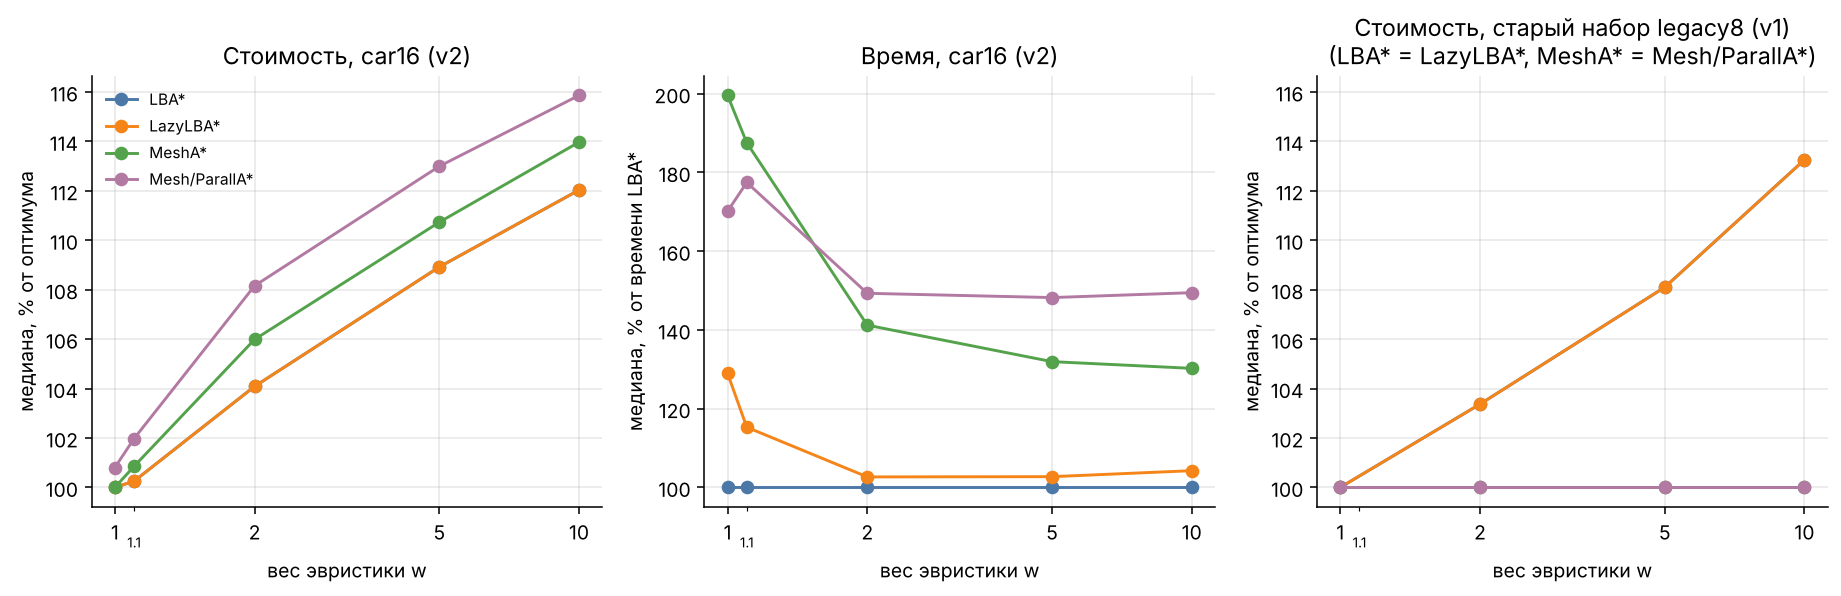
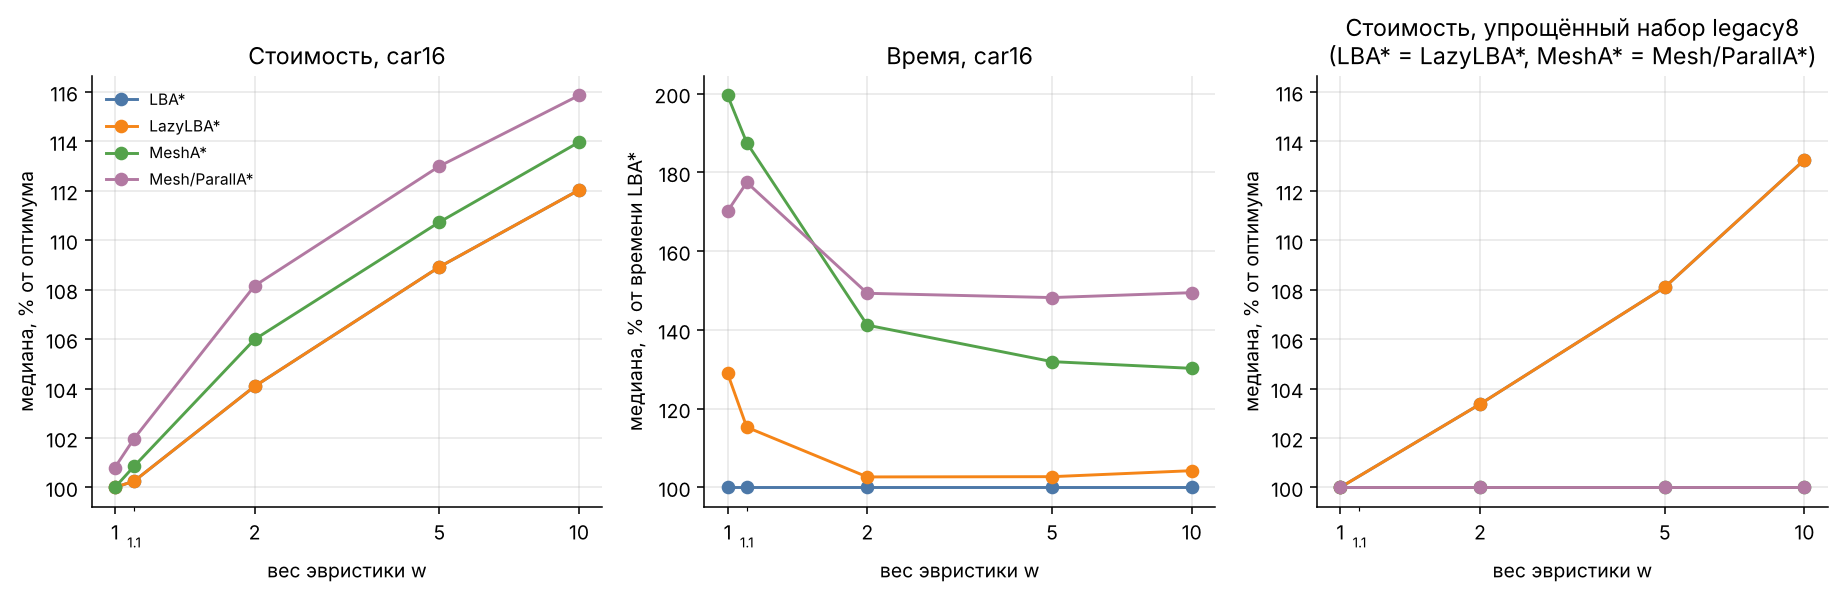
Fix README numbers that disagree with results, drop version labels
- README / conclusions: MeshA* checks above cost 80 are 74% of LBA*, not 87%
- Mesh/ParallA* first-query median cost is 100.6% (100.8% is over all queries)
- conclusions: first-query times for MeshA* (2.5x) and LazyLBA* (1.6x)
- README: say the legacy8 ablation uses its own 32 instances; mention the
  3 draws dropped because no obstacle could be placed
- Figure 7: remove (v1)/(v2) from titles
- Rename data/benchmarks/incremental_mesha_v1.json to legacy8_instances.json
- requirements: add nbconvert and ipykernel used by the README's notebook command
- Rebuild and re-execute the notebook

Claude-Session: https://claude.ai/code/session_0136pGyRuDmUFWzwHhNTfNaW

Changed region(s): [[0.7121, 0.0302, 0.9908, 0.0604], [0.1238, 0.0604, 0.2477, 0.1208], [0.4644, 0.0604, 0.5883, 0.1208]]

diff --git a/mesha/benchmark.py b/mesha/benchmark.py
@@ -418,17 +418,16 @@ def run_benchmark(benchmark: dict | None = None, repeats: int = 3, weights=WEIGH
 
 
 def run_legacy_ablation(weights=(1.0, 2.0, 5.0, 10.0)) -> dict:
-    """The v1 benchmark (8-heading legacy set) with the corrected counters.
+    """Ablation with the 8-heading legacy8 control set on its own 32 instances.
 
-    Used to check whether the v1 finding "weighted MeshA* is less suboptimal than
-    LBA*" comes from the control set.
+    Checks whether "weighted MeshA* is as good as LBA*" depends on the control set.
     """
-    v1 = json.loads((ROOT / "data" / "benchmarks" / "incremental_mesha_v1.json").read_text(encoding="utf-8"))
+    data = json.loads((ROOT / "data" / "benchmarks" / "legacy8_instances.json").read_text(encoding="utf-8"))
     control = build_control_set("legacy8")
     mesh = build_mesh(control)
-    maps = {row["file"]: load_map(MAP_DIR / row["file"]) for row in v1["maps"]}
+    maps = {row["file"]: load_map(MAP_DIR / row["file"]) for row in data["maps"]}
     records = []
-    for instance in v1["instances"]:
+    for instance in data["instances"]:
         for qi, query in enumerate(instance["queries"]):
             grid = apply_blocks(maps[instance["map"]], query["blocks"])
             for weight in weights:
@@ -440,7 +439,7 @@ def run_legacy_ablation(weights=(1.0, 2.0, 5.0, 10.0)) -> dict:
                         "success": r.success, "cost": r.cost if r.success else None,
                         "expansions": r.expansions, "checked_cells": r.checked_cells,
                     })
-    return {"meta": {"control_set": "legacy8", "instances": len(v1["instances"])}, "records": records}
+    return {"meta": {"control_set": "legacy8", "instances": len(data["instances"])}, "records": records}
 
 
 def save_results(results: dict, path: Path | None = None) -> Path:

diff --git a/tools_make_figures.py b/tools_make_figures.py
@@ -164,7 +164,7 @@ for name in ONE_SHOT:
     axes[2].plot(lw, ys, marker="o", color=COLORS[name], label=DISPLAY[name])
 for ax, title, ylabel in zip(
     axes,
-    ("Стоимость, car16 (v2)", "Время, car16 (v2)", "Стоимость, старый набор legacy8 (v1)\n(LBA* = LazyLBA*, MeshA* = Mesh/ParallA*)"),
+    ("Стоимость, car16", "Время, car16", "Стоимость, упрощённый набор legacy8\n(LBA* = LazyLBA*, MeshA* = Mesh/ParallA*)"),
     ("медиана, % от оптимума", "медиана, % от времени LBA*", "медиана, % от оптимума"),
 ):
     ax.set_xscale("log")

diff --git a/README.md b/README.md
@@ -68,7 +68,7 @@ mesh-графе эвристика равна расстоянию от аген
 | Трассы коллизий | Supercover кривой: при пересечении угла клетки помечаются обе соседние клетки, поэтому диагональные шаги не срезают углы препятствий |
 | Препятствия | Диск радиуса 2–4 на плане; агент останавливается за 4 клетки до него. Каждая правка повышает оптимальную стоимость (медиана +2.3) |
 | Счётчики | Стартовая клетка примитива не считается; MeshA\* считает различные клетки за одно раскрытие плюс чтения своего правила отсечения |
-| Бенчмарк | Длины стратифицированы (до 120 на картах MovingAI, до 90 на сгенерированных), по 3 случайных пары курсов на пару клеток, как в статье. Отбрасываются только запросы, у которых решения нет в принципе; все отказы записываются в лог |
+| Бенчмарк | Длины стратифицированы (до 120 на картах MovingAI, до 90 на сгенерированных), по 3 случайных пары курсов на пару клеток, как в статье. Отбрасываются запросы, у которых решения нет в принципе, и запросы, на плане которых не удалось поставить препятствие (3 случая); все отказы записываются в лог |
 | Замер времени | 3 повтора в случайном порядке, берётся медиана. Счётчики обязаны совпадать между повторами, иначе прогон останавливается |
 | Базовые линии | Mesh/ParallA\* и веса `w` = 1, 1.1, 2, 5, 10 на всех запросах, как в статье |
 
@@ -133,7 +133,7 @@ mesh-графе эвристика равна расстоянию от аген
 | LBA\* | 100% | 100% | 325% | оптимум |
 | LazyLBA\* | 156% | 31% | 100% | оптимум |
 | MeshA\* | 246% | 70% | 210% | оптимум |
-| Mesh/ParallA\* | 170% | 63% | 201% | 100.8% (медиана) |
+| Mesh/ParallA\* | 170% | 63% | 201% | 100.6% (медиана) |
 
 * **Проверки коллизий.** MeshA\* читает 70% клеток от нашего LBA\* (город 81%, помещение 75%, лабиринт 71%,
   комнаты 55%). Наш LBA\* проверяет примитив, только если преемник не закрыт и улучшает g. Если сравнивать с
@@ -143,13 +143,13 @@ mesh-графе эвристика равна расстоянию от аген
 * **Время (Python).** MeshA\* в 2.5 раза медленнее LBA\* и раскрывает примерно в 5 раз больше вершин: каждая
   клетка примитива — отдельная запись в очереди. Ускорение из статьи (60–80% времени LBA\*) **не
   воспроизводится**: в Python накладные расходы на вершину больше, чем экономия на дешёвых чтениях клеток.
-* **Mesh/ParallA\*** быстрее MeshA\* (170% против 246% времени LBA\*) при медианной стоимости 100.8% от
-  оптимума (в статье 100.3–100.7%). **LazyLBA\*** медленнее LBA\*. Оба вывода совпадают со статьёй.
+* **Mesh/ParallA\*** быстрее MeshA\* (170% против 246% времени LBA\*) при медианной стоимости 100.6% от
+  оптимума (по всем 561 запросам 100.8%, в статье 100.3–100.7%). **LazyLBA\*** медленнее LBA\*. Оба вывода совпадают со статьёй.
 
 <p align="center"><img src="docs/figures/06_cells_vs_length.png" width="60%"></p>
 
 *Рис. 5. Экономия проверок у MeshA\* максимальна на коротких путях: медиана 42% от LBA\* при стоимости
-меньше 40 и 87% при стоимости больше 80.*
+меньше 40 и 74% при стоимости больше 80.*
 
 ### 5.3. Взвешенный поиск
 
@@ -165,7 +165,9 @@ mesh-графе эвристика равна расстоянию от аген
 С набором car16 взвешенный MeshA\* **хуже по стоимости, чем LBA\***. Это то же направление, что в таблице 1
 статьи. Абляция (правый график) показывает, что результат зависит от набора примитивов: на упрощённом
 8-курсовом наборе legacy8, где все длинные примитивы раскладываются в цепочки 1-шаговых, MeshA\* остаётся на
-100% при любом весе. По времени при `w ≥ 2` разрыв между MeshA\*
+100% при любом весе. Абляция посчитана на отдельном наборе из 32 более коротких экземпляров
+(`data/benchmarks/legacy8_instances.json`), а не на 187 основных, поэтому строку legacy8 стоит сравнивать с
+остальными только по направлению эффекта. По времени при `w ≥ 2` разрыв между MeshA\*
 и LBA\* сокращается до 1.3–1.4 раза.
 
 ### 5.4. Инкрементальное перепланирование
@@ -237,6 +239,7 @@ D\* Lite на mesh-графе раскрывает в 3.8 раза больше 
 | `tools_make_figures.py` | Рисунки для этого README (`docs/figures/`) |
 | `data/benchmarks/incremental_mesha.json` | Бенчмарк (экземпляры, лог отбора) |
 | `results/runs.json` | Результаты с описанием окружения |
+| `data/benchmarks/legacy8_instances.json` | Экземпляры для абляции с набором `legacy8` |
 | `results/legacy8_ablation.json` | Абляция с набором `legacy8` |
 
 ```bash

diff --git a/conclusions.md b/conclusions.md
@@ -9,7 +9,7 @@ replans (2 planners × 561 queries) match the from-scratch optimum. No run hit t
 **One-shot planning (paper setting, `w = 1`, first query).**
 
 * *Collision checks.* MeshA* reads 70% as many cells as our LBA*. The saving is largest on short paths (42% below
-  cost 40) and shrinks on long ones (87% above cost 80). Against a textbook LBA* that checks every primitive
+  cost 40) and shrinks on long ones (74% above cost 80). Against a textbook LBA* that checks every primitive
   before looking at g-values, MeshA* reads about 28% as many cells, which is closer to the paper's claim. In both
   cases MeshA* reads about 2× more cells than LazyLBA*. That is the opposite of the paper's Fig. 5. LazyLBA*
   checks only the primitives it pops, and in this control set most generated primitives are never popped.
@@ -17,15 +17,16 @@ replans (2 planners × 561 queries) match the from-scratch optimum. No run hit t
   5× more nodes, since every cell of a primitive is a queue entry. The paper's 60-80% of LBA* runtime is not
   reproduced here. In Python, per-node interpreter overhead outweighs the cheap grid reads this saves. The
   comparison that carries over to a compiled implementation is the collision-check count.
-* *Mesh/ParallA*.* Median cost is 100.8% of optimal (paper: 100.3-100.7%), optimal in 168 of 561 queries. It is
-  faster than MeshA* (1.7× LBA* time instead of 2.0×), as in the paper.
-* *LazyLBA*.* It is slower than LBA* (1.3× at `w = 1`), as the paper also finds. Grid reads are cheap, so
+* *Mesh/ParallA*.* Median cost is 100.6% of optimal on the first query (100.8% over all 561 queries; paper:
+  100.3-100.7%), optimal in 168 of 561 queries. It is faster than MeshA* (1.7× LBA* time instead of 2.5×), as in
+  the paper.
+* *LazyLBA*.* It is slower than LBA* (1.6× at `w = 1`), as the paper also finds. Grid reads are cheap, so
   checking fewer of them doesn't pay for the extra queue traffic.
 
 **Weighted search.** With the car-like control set, weighted MeshA* is *more* suboptimal than LBA* (at w = 2 / 5
 / 10: 106.0 / 110.7 / 114.0% of optimal, against LBA*'s 104.1 / 108.9 / 112.0%). This is the paper's Table 1
-trend. On the v1 instances with the v1 control set, MeshA* stays at a median of 100% for every weight, so the v1
-"reversal" came from the degenerate control set and not from the algorithm.
+trend. With the 8-heading legacy8 control set (on its own 32 instances), MeshA* stays at a median of 100% for
+every weight, so that effect comes from the degenerate control set and not from the algorithm.
 
 **Incremental replanning (queries 1-2, `w = 1`).**
 
